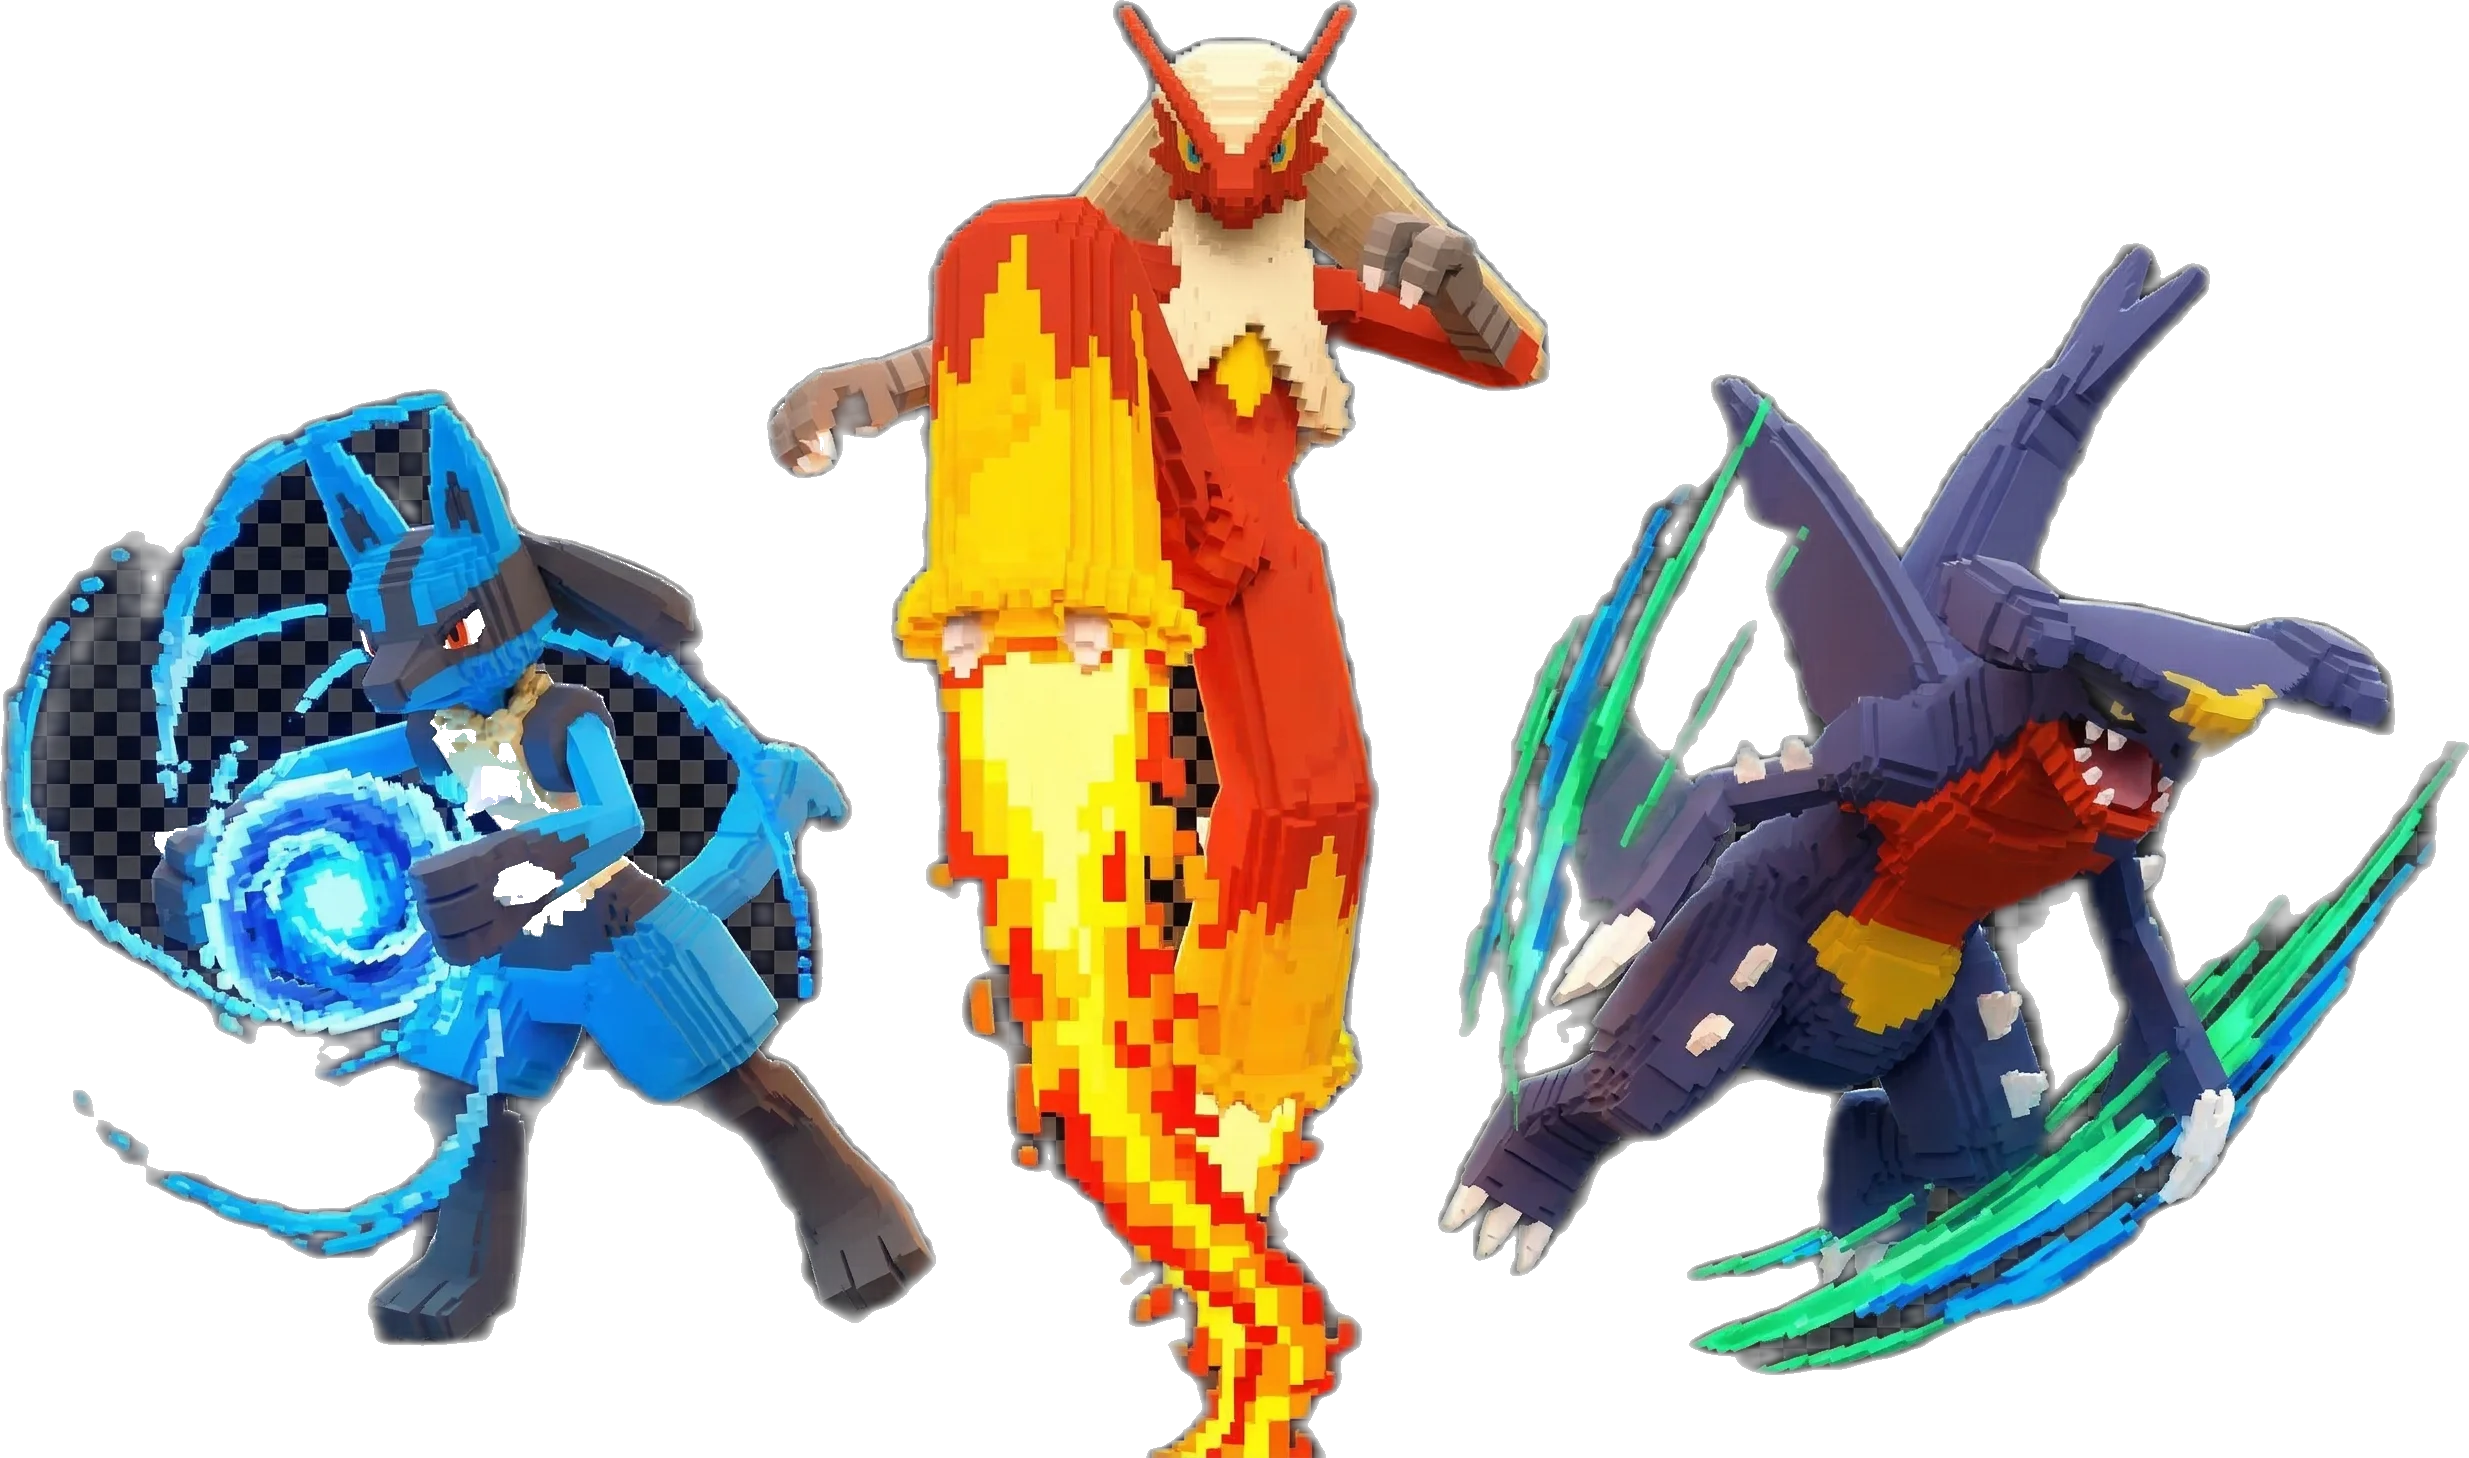
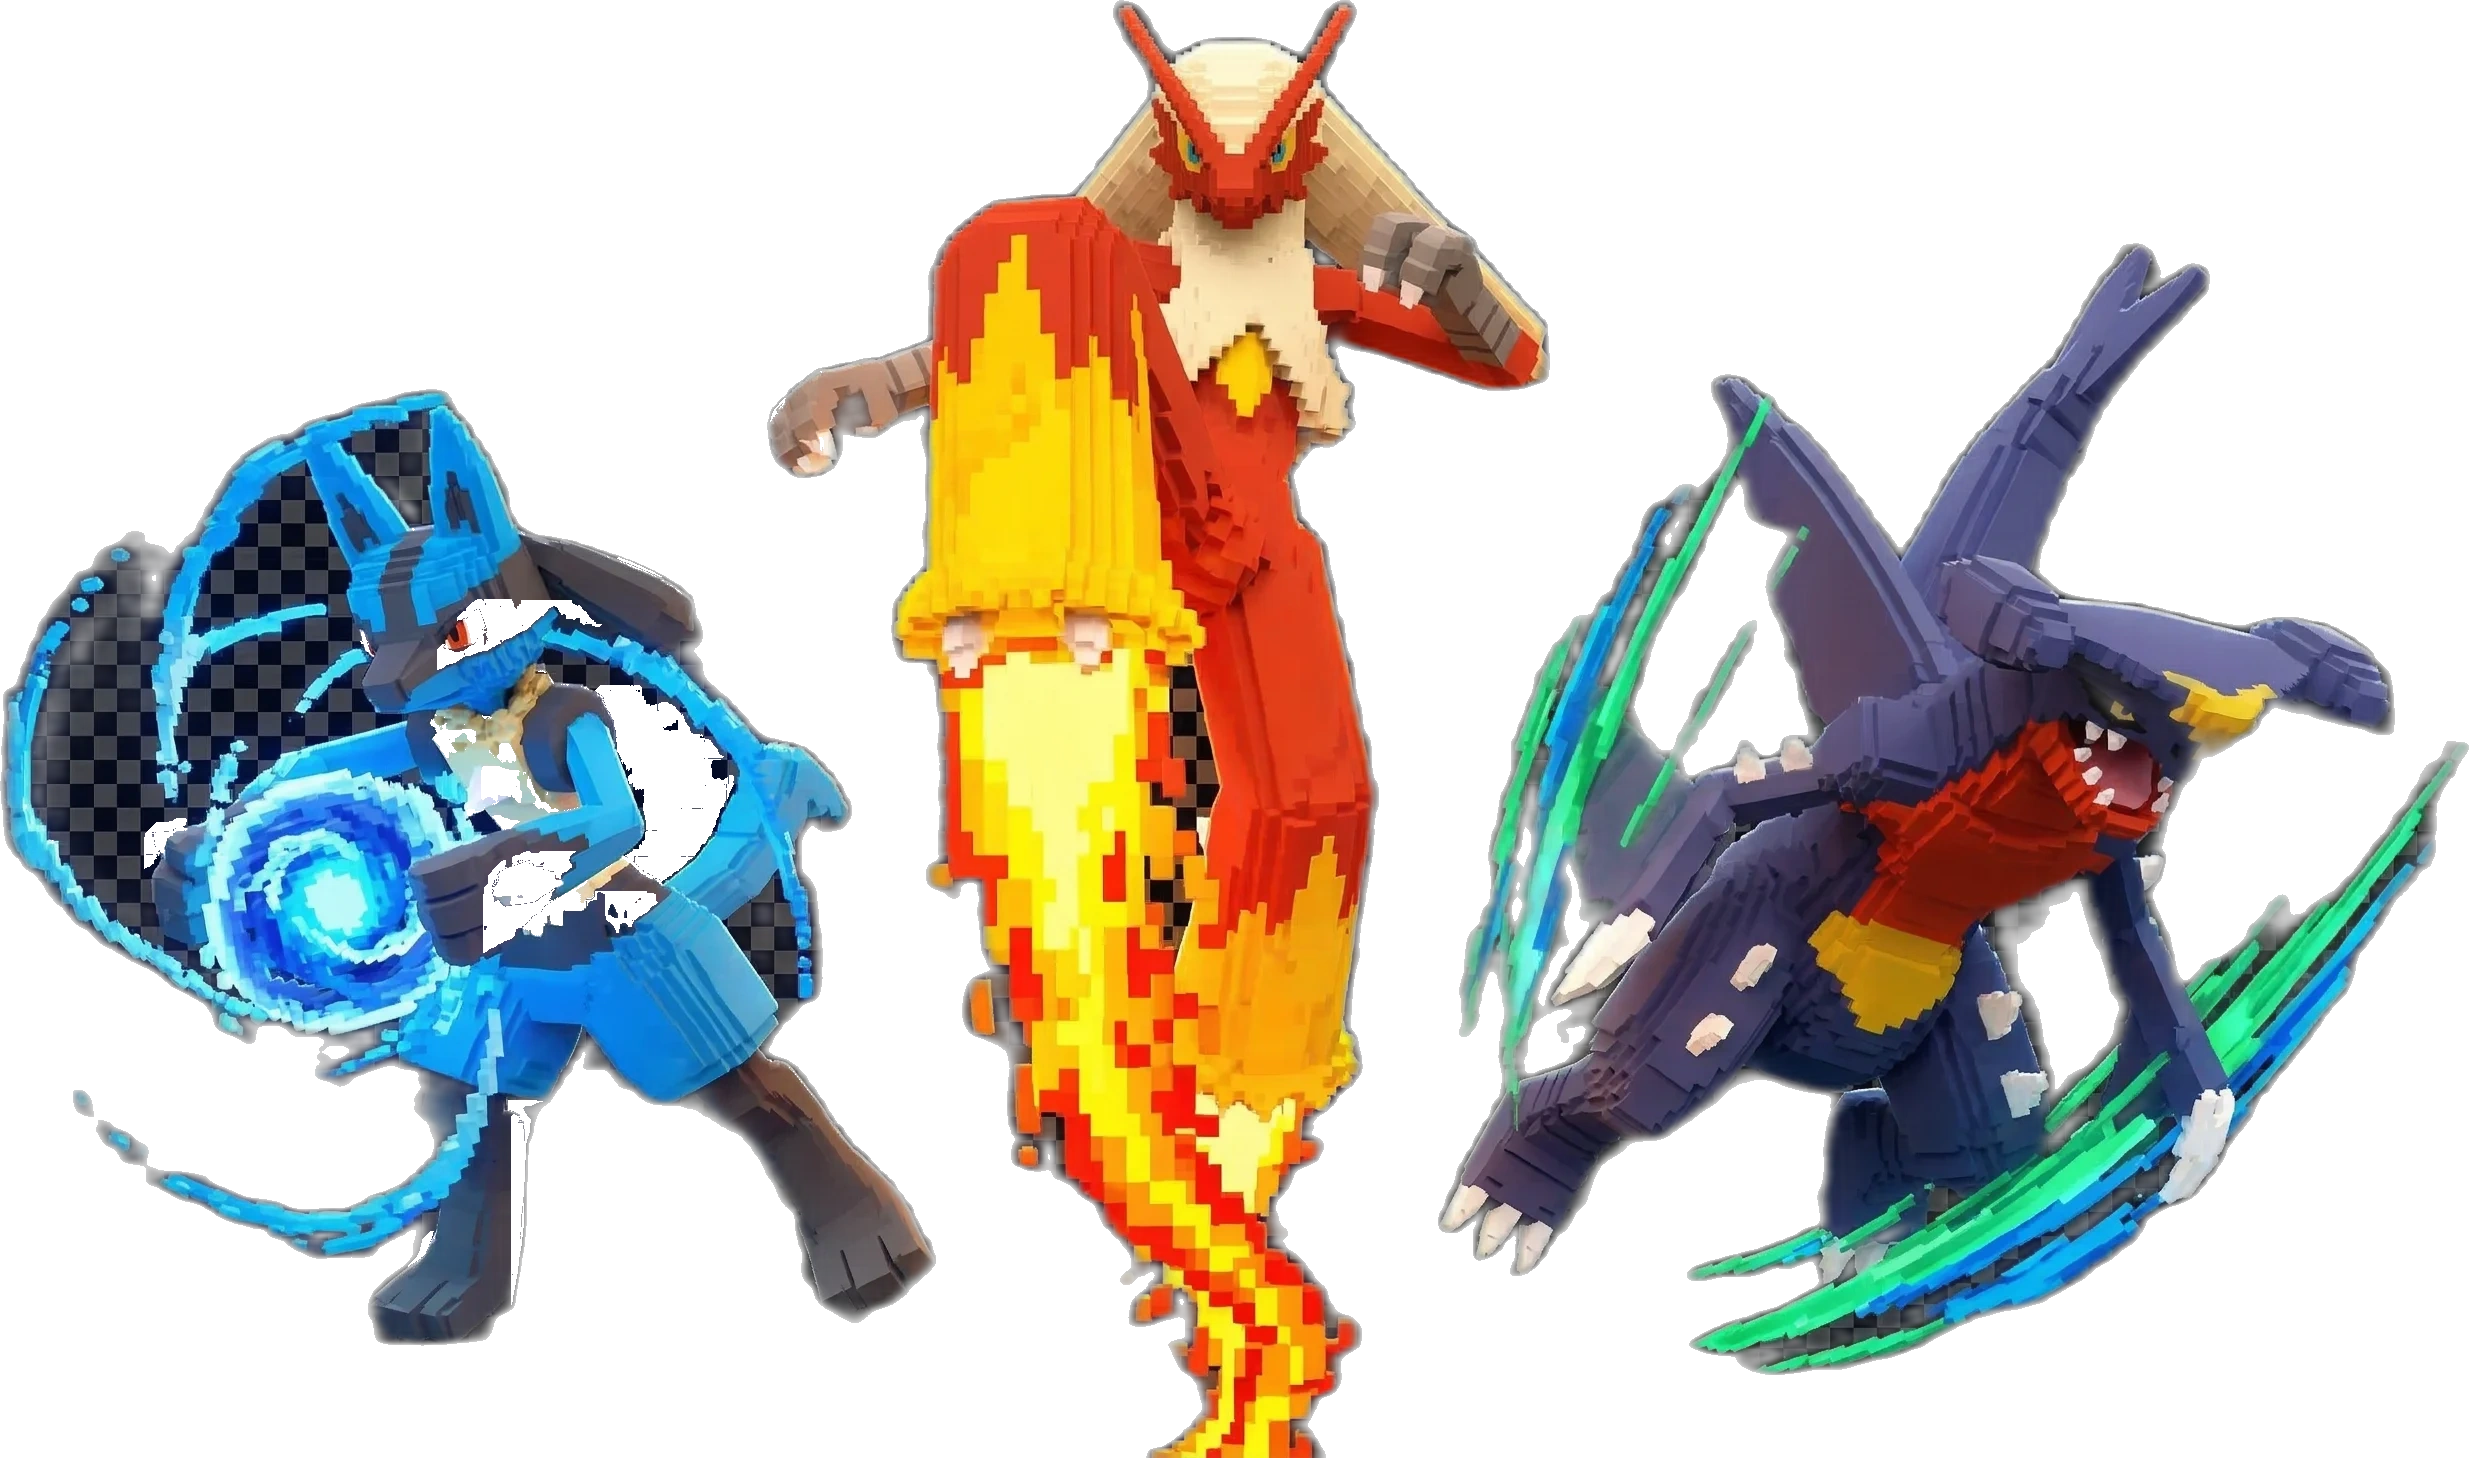
Ajout Metamorph au Pack Arene + liens launcher v1.4.0
- Metamorph (Ditto) ajoute au pool Pokemon du Pack Arene
- Liens telechargement launcher mis a jour vers v1.4.0 (Windows/macOS/Linux)
- Nettoyage partiel du detourage pack-arena.webp

diff --git a/app/page.tsx b/app/page.tsx
@@ -238,6 +238,7 @@ const SHOP_PRODUCTS: ShopProduct[] = [
       { name: "Flamigator", sprite: "skeledirge" },
       { name: "Palmaval", sprite: "quaquaval" },
       { name: "Aligatueur", sprite: "feraligatr" },
+      { name: "Metamorph", sprite: "ditto" },
     ],
   },
   {
@@ -1084,9 +1085,9 @@ function CopyButton({ text }: { text: string }) {
   );
 }
 
-const LAUNCHER_URL = "https://github.com/Loukoulele/cobblenite-launcher/releases/download/v1.1.0/Cobblenite-Launcher-setup-1.1.0.exe";
-const LAUNCHER_MAC_URL = "https://github.com/Loukoulele/cobblenite-launcher/releases/download/v1.0.1/Cobblenite-Launcher-1.0.0-x64.dmg";
-const LAUNCHER_LINUX_URL = "https://github.com/Loukoulele/cobblenite-launcher/releases/download/v1.0.1/Cobblenite-Launcher-1.0.0.AppImage";
+const LAUNCHER_URL = "https://github.com/Loukoulele/cobblenite-launcher/releases/download/v1.4.0/Cobblenite-Launcher-setup-1.4.0.exe";
+const LAUNCHER_MAC_URL = "https://github.com/Loukoulele/cobblenite-launcher/releases/download/v1.4.0/Cobblenite-Launcher-1.4.0-x64.dmg";
+const LAUNCHER_LINUX_URL = "https://github.com/Loukoulele/cobblenite-launcher/releases/download/v1.4.0/Cobblenite-Launcher-1.4.0.AppImage";
 
 const NAV_ITEMS = [
   { id: "hero", label: "Cobblenite", href: "#" },
